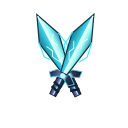
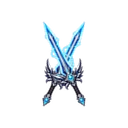
뇌명 지팡이와 자전궁과 창뢰 쌍검을 생성 원화로 바꾸고 장착 좌표를 맞춘다

Changed region(s): [[0.2812, 0.0938, 0.75, 0.8438]]

diff --git a/src/game/updates.js b/src/game/updates.js
@@ -5,6 +5,7 @@
 export const RPG_NOTICE = { id: "2026-10-139", notes: ["2026-10-139"] };
 
 export const UPDATES = [
+  { id: "2026-10-140", date: "10월 30일", items: ["뇌명 지팡이 · 자전궁 · 창뢰 쌍검을 새 그림으로 바꿨습니다.", "가방과 손에 든 모습에 함께 적용했습니다. 창뢰 쌍검은 양손에 한 자루씩 듭니다."] },
   { id: "2026-10-139", date: "10월 30일", items: ["전설 무기 뇌명 지팡이 · 자전궁 · 창뢰 쌍검을 추가했습니다. 획득처는 미정입니다.", "천뢰난무: 둘레에 연속 낙뢰. 자전 관통: 보랏빛 전격을 직선으로 발사합니다.", "창뢰 비상참: X 또는 스킬 버튼을 누르고 충전한 뒤 놓으면 청록빛 칼날을 펼치며 돌진합니다."] },
   { id: "2026-10-138", date: "10월 29일", items: ["첫 화면을 새로 꾸몄습니다. 나무 간판 아래 RPG와 타워 디펜스의 실제 게임 화면과 입장 버튼을 배치했습니다.", "RPG 입장은 캐릭터 준비로 이어집니다. 타워 디펜스 입장에서 이름을 적고 새 방을 만들거나 친구의 코드로 들어가세요.", "오른쪽 위에서 업데이트를 확인하고 문의를 보낼 수 있습니다. 양옆에는 게임 속 몬스터·캐릭터·궁수탑을, 아래에는 여러 RPG 직업을 모았습니다."] },
   { id: "2026-10-137", date: "10월 28일", items: ["가방을 열면 화면이 하얗게 바뀌며 튕기던 문제를 고쳤습니다.", "무기상점에서 무기를 살 때 같은 문제가 날 수 있던 것도 함께 고쳤습니다."] },

diff --git a/src/game/rpgArt.js b/src/game/rpgArt.js
@@ -54,10 +54,11 @@ const DUAL_HELD = {
   src: '/assets/game/rpg/items/dragon-dual-held.webp',
   grips: [[64, 107, 64, 5], [64, 107, 64, 44]], lengths: [32, 22],
 };
-const AZURE_HELD = { src: '/assets/game/rpg/weapons/azure-dual-held.webp', grips: [[64,107,64,8],[64,107,64,8]], lengths: [33,33] };
+const AZURE_HELD = { src: '/assets/game/rpg/weapons/azure-dual-held.webp', grips: [[64,99,64,8],[64,99,64,8]], lengths: [33,33] };
 const dualSpec = sp => sp?.dual ? AZURE_HELD : DUAL_HELD;
 const WEAPON_GRIP = {
-  storm_staff: [64,106,64,14], violet_bow: [64,64,68,9], azure_dual: [64,107,64,8],
+  // 생성 원화의 손잡이 → 끝. 활줄은 왼쪽에 놓인다.
+  storm_staff: [63,98,64,12], violet_bow: [73,64,45,10], azure_dual: [64,99,64,8],
   dragon_dual: [26, 104, 109, 15], dragon_staff: [64, 100, 65, 16], dragon_bow: [66, 67, 60, 12],
   serpent_sword: [24, 108, 108, 20], serpent_staff: [62, 100, 62, 15], serpent_bow: [62, 64, 75, 14],
   machine_sword: [25, 105, 100, 20], machine_staff: [62, 100, 62, 15], machine_bow: [63, 64, 76, 14],

diff --git a/tools/cut-storm-weapons.py b/tools/cut-storm-weapons.py
@@ -1,0 +1,33 @@
+"""생성 원화에서 영상 무기 셋을 자른다. 실행: python3 tools/cut-storm-weapons.py
+
+원본의 투명도를 유지한다. 쌍검은 같은 칼을 양손에 나눠 들고 가방에서는 교차한다.
+"""
+from pathlib import Path
+from PIL import Image
+
+ROOT = Path(__file__).resolve().parent.parent
+source = Image.open(ROOT / 'design/weapons/storm-generated.png').convert('RGBA')
+dest = ROOT / 'public/assets/game/rpg/weapons'
+names = ['storm_staff', 'violet_bow', 'azure_dual']
+sprites = []
+for index, name in enumerate(names):
+    cell = source.crop((index * source.width // 3, 0, (index + 1) * source.width // 3, source.height))
+    bounds = cell.getchannel('A').point(lambda a: 255 if a > 8 else 0).getbbox()
+    item = cell.crop(bounds)
+    item.thumbnail((112, 112), Image.Resampling.LANCZOS)
+    sprite = Image.new('RGBA', (128, 128))
+    sprite.alpha_composite(item, ((128 - item.width) // 2, (128 - item.height) // 2))
+    sprites.append(sprite)
+    if name != 'azure_dual':
+        sprite.save(dest / f'{name}.webp', quality=95, method=6)
+
+held = Image.new('RGBA', (256, 128))
+held.alpha_composite(sprites[2], (0, 0))
+held.alpha_composite(sprites[2], (128, 0))
+held.save(dest / 'azure-dual-held.webp', quality=95, method=6)
+icon = Image.new('RGBA', (128, 128))
+blade = sprites[2].resize((108, 108), Image.Resampling.LANCZOS)
+for angle in [-26, 26]:
+    rotated = blade.rotate(angle, Image.Resampling.BICUBIC, expand=True)
+    icon.alpha_composite(rotated, ((128 - rotated.width) // 2, (128 - rotated.height) // 2))
+icon.save(dest / 'azure_dual.webp', quality=95, method=6)

diff --git a/docs/영상-무기-3종.md b/docs/영상-무기-3종.md
@@ -24,3 +24,9 @@
 판정은 방장이 한다. `ws.storm`을 스냅샷 46번 줄 끝에 추가해 방장 승계 때도 진행·타격 기록·PvP 피해 한도를 유지한다. 전격과 돌진은 지나간 선분을 검사해 빠른 이동에서도 타격 누락과 중복을 방지한다.
 
 확인: 빌드 성공, lint 종료 코드 0(기존 경고 존재), 신규 11개와 기존 무기·전직을 포함한 73개 테스트 성공. 실제 RpgView를 로컬 Chromium에 띄워 세 지급 명령, 장착, X 발동·충전·해제, 화면 버튼을 누른 뒤 영역 밖에서 놓기까지 확인했다. 브라우저 오류 0. 이 브라우저 시험은 외부 서비스 요청을 막고 수행했다.
+
+## 새 무기 그림 (2026-10-30)
+
+내장 이미지 생성 도구로 뇌명 지팡이·자전궁·창뢰 쌍검 원화를 제작했다. 원본은 `design/weapons/storm-generated.png`다. `tools/cut-storm-weapons.py`가 투명도를 유지해 128px 아이콘과 256×128 양손 쌍검 시트를 만든다. 기존 경로를 유지하고 `rpgArt.js`의 손잡이 좌표를 새 그림에 맞췄다. `tools/storm-weapons-art.mjs`도 새 자르기를 호출하므로 임시 SVG로 덮어쓰지 않는다.
+
+확인: 빌드 성공. 린트 성공(기존 경고 유지). 무기 판정 시험 성공. 로컬 Chromium에서 세 아이콘의 128×128 로딩과 세 직업의 실제 `drawRpg` 장착 모습을 확인했다. 쌍검 양손 표시와 활줄 방향을 확인했고 브라우저 오류는 없었다. 배포 상태는 작업 보고에서 별도로 확인한다.

diff --git a/public/assets/game/README.md b/public/assets/game/README.md
@@ -124,3 +124,7 @@ python3 tools/png-to-webp.py             # public/assets/game 에 WebP 와 manif
 ### 첫 화면의 게임 미리 보기
 
 `/assets/home/rpg.webp`와 `/assets/home/defense.webp`는 실제 게임 렌더러를 사용해 캡처한 1160×760 정지 화면이다. `/assets/home/meadow.webp`는 새로 생성한 1586×992 하늘·풀밭 배경이다. `HomeScreen.jsx`에서 모드별 카드와 장식을 배치한다. 첫 화면의 캐릭터와 궁수탑은 이 문서의 기존 그림을 재사용한다.
+
+### 영상 무기 3종 새 원화 (2026년 10월 30일)
+
+`rpg/weapons/storm_staff.webp` 뇌명 지팡이 · `violet_bow.webp` 자전궁 · `azure_dual.webp` 창뢰 쌍검은 128×128 투명 WebP입니다. 손에 드는 쌍검은 `azure-dual-held.webp` 256×128의 두 칸입니다. 원본은 `design/weapons/storm-generated.png`이며 내장 이미지 생성 도구로 제작했습니다. `python3 tools/cut-storm-weapons.py`로 다시 자릅니다. 기존 SVG는 임시 그림 기록으로만 남깁니다. 손잡이 좌표는 `rpgArt.js`의 `WEAPON_GRIP` · `AZURE_HELD`입니다.

diff --git a/ASSETS.md b/ASSETS.md
@@ -264,3 +264,7 @@ RPG 모드에서 고르는 기본 캐릭터입니다. 직업 3종(warrior · mag
 | `defense.webp` | 1160×760 | 실제 방어전 렌더러의 성채·네 갈래 길·탑·몬스터 화면 |
 
 왼쪽 장식은 `characters/enemies/grunt.webp`, `characters/rpg/warrior-m/front.webp`. 오른쪽은 `game/defense/towers/archer-1.webp`와 `archer-1-turret.webp`, `characters/players/archer/portrait.webp`. 아래 직업 10명도 `characters/rpg/<직업>-<성별>/front.webp`를 그대로 쓴다.
+
+### 영상 무기 3종 새 원화 (2026년 10월 30일)
+
+`rpg/weapons/storm_staff.webp` 뇌명 지팡이 · `violet_bow.webp` 자전궁 · `azure_dual.webp` 창뢰 쌍검은 128×128 투명 WebP입니다. 손에 드는 쌍검은 `azure-dual-held.webp` 256×128의 두 칸입니다. 원본은 `design/weapons/storm-generated.png`이며 내장 이미지 생성 도구로 제작했습니다. `python3 tools/cut-storm-weapons.py`로 다시 자릅니다. 기존 SVG는 임시 그림 기록으로만 남깁니다. 손잡이 좌표는 `rpgArt.js`의 `WEAPON_GRIP` · `AZURE_HELD`입니다.
